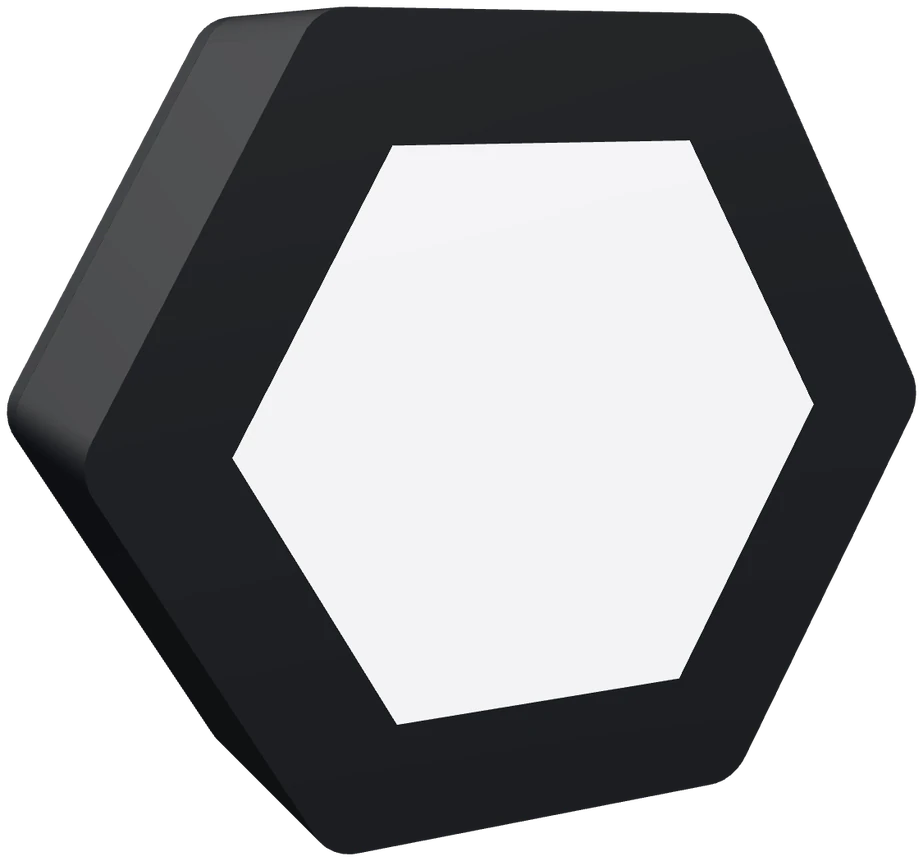
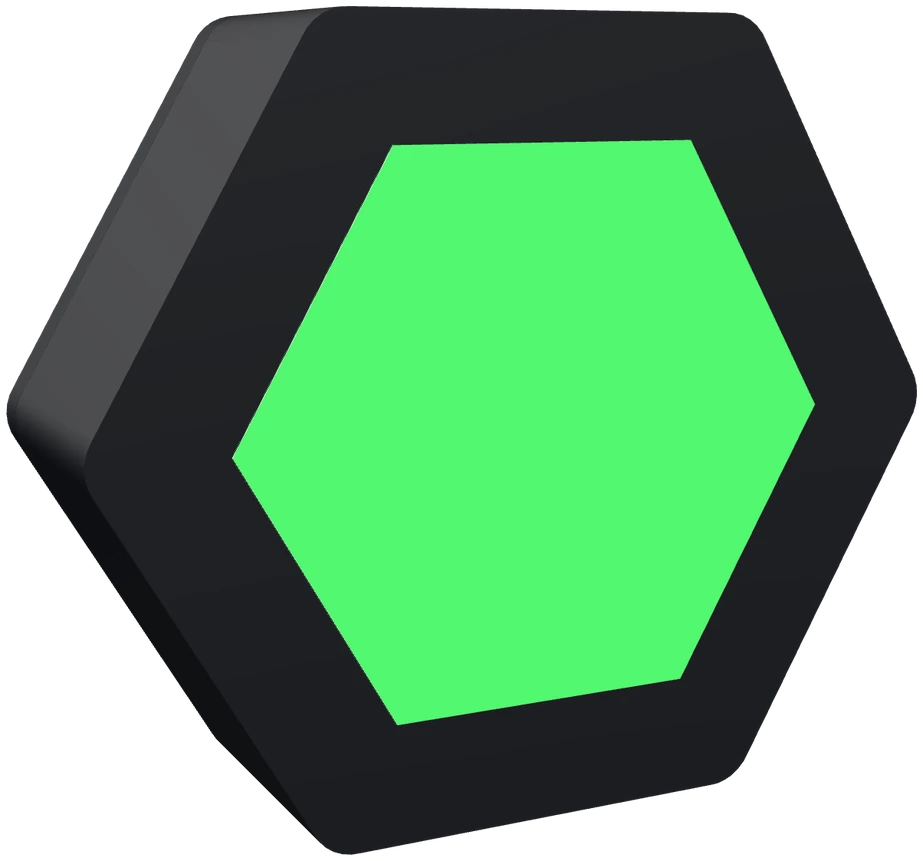
The Hex shows green in preview too (Rob: it can turn any colour); its copy says red only is a setting

diff --git a/shop/index.html b/shop/index.html
@@ -107,7 +107,7 @@
       <p class="price"><span class="later">Coming soon</span></p>
       <a class="pill" data-buy="hex" href="#signup">Join the waitlist</a>
       <button class="pill ghost v3d-btn" type="button" data-3d="hex" aria-label="View the Hex talent light in 3D">View in 3D</button>
-      <p class="spec"><b>One soft glow</b>37 LEDs behind a frosted face, so it is easy to look at from a few feet away. Red when the camera is on air, dark otherwise, so the presenter knows which lens to find.</p>
+      <p class="spec"><b>One soft glow</b>37 LEDs behind a frosted face, so it is easy to look at from a few feet away. Red on air and green in preview, with its light, or any colour from a Companion button of its own. Or set it to red only, so the presenter knows which lens to find.</p>
       <p class="spec"><b>Plugs into a Cue light<sup class="fn"><a href="#fn-3" aria-label="Note 3">3</a></sup></b>On a cable from a Cue Mini or Cue 360, and follows its tally. No WiFi or setup of its own.</p>
       <p class="spec"><b>Aim it</b>A 1/4-20 on the back, for a ball head or a magic arm.</p>
       <p class="spec"><b>Slim</b>About 40 mm across and 16 mm deep.</p>
@@ -150,7 +150,7 @@
     <article class="rig" data-rise style="--i:1">
       <h3>On the camera.</h3>
       <p>A Cue Mini for the operator, and a Hex on its cable for the presenter.</p>
-      <div class="flow"><figure class="dev"><img data-dev="mini" src="/static/devices/mini-program.svg?v=8" alt="" width="120" height="120"><figcaption>Operator</figcaption></figure><span class="wire"><b>Cable</b></span><figure class="dev"><img data-dev="hex" src="/static/devices/hex-program.svg?v=11" alt="" width="120" height="120"><figcaption>Presenter</figcaption></figure></div>
+      <div class="flow"><figure class="dev"><img data-dev="mini" src="/static/devices/mini-program.svg?v=8" alt="" width="120" height="120"><figcaption>Operator</figcaption></figure><span class="wire"><b>Cable</b></span><figure class="dev"><img data-dev="hex" src="/static/devices/hex-program.svg?v=12" alt="" width="120" height="120"><figcaption>Presenter</figcaption></figure></div>
     </article>
     <article class="rig" data-rise style="--i:2">
       <span class="later">Coming soon</span>
@@ -176,7 +176,7 @@
     </details>
     <details name="faq" id="hex">
       <summary>What does the Hex plug into?</summary>
-      <div class="ans">The port beside the USB-C on a Cue Mini or a Cue 360, on its own cable. It shows that light's tally for the presenter: red when the camera is on air, dark otherwise. It has no WiFi or setup of its own, and it runs on the power of the light it plugs into.</div>
+      <div class="ans">The port beside the USB-C on a Cue Mini or a Cue 360, on its own cable. It shows that light's tally for the presenter: red on air, green in preview. It can also show red only, or follow a Companion button of its own in any colour. It has no WiFi or setup of its own, and it runs on the power of the light it plugs into.</div>
     </details>
     <details name="faq" id="returns">
       <summary>What if it isn't right for my show?</summary>
@@ -234,7 +234,6 @@
       <button type="button" data-state="preview" aria-pressed="false">Preview</button>
       <button type="button" data-state="off" aria-pressed="false">Off</button>
     </div>
-    <p class="v3d-note" hidden>The Hex lights only on air. In preview it stays dark, so the presenter looks at the camera that is live.</p>
     <p>Drag to turn it. Pinch or scroll to zoom.</p>
     <p class="v3d-fail">The 3D viewer could not load here.</p>
   </div>
@@ -277,7 +276,7 @@
 
 <script src="/static/faces.js?v=11"></script>
 <script src="/static/nav.js?v=9"></script>
-<script src="/static/view3d.js?v=24"></script>
+<script src="/static/view3d.js?v=25"></script>
 <script>
   document.documentElement.classList.add('js');
 

diff --git a/index.html b/index.html
@@ -114,7 +114,7 @@
   <div class="trio" data-rise style="--i:1">
     <img data-dev="mini" src="/static/devices/mini-program.svg?v=8" alt="Cue Mini" width="120" height="120">
     <img class="mid" data-dev="360" src="/static/devices/360-program.svg?v=8" alt="Cue 360" width="120" height="120">
-    <img data-dev="hex" src="/static/devices/hex-program.svg?v=11" alt="Hex talent light" width="120" height="120">
+    <img data-dev="hex" src="/static/devices/hex-program.svg?v=12" alt="Hex talent light" width="120" height="120">
   </div>
   <div class="home-seg" data-rise style="--i:2">
     <div class="seg" role="group" aria-label="Tally">
@@ -204,11 +204,11 @@
     // The live thing: one tally control, and every light drawn on the page follows it.
     const keys = document.querySelectorAll('.key');
     const note = document.getElementById('seg-note');
-    const words = { program: 'On air: every light is red.', preview: 'Preview: the Mini and the 360 are green. The Hex stays dark.', off: 'Off: every light is dark.' };
+    const words = { program: 'On air: every light is red.', preview: 'Preview: every light is green.', off: 'Off: every light is dark.' };
     let state = 'program';
     function paint() {
       document.querySelectorAll('img[data-dev]').forEach(img => {
-        img.src = '/static/devices/' + img.dataset.dev + '-' + state + '.svg?v=11';
+        img.src = '/static/devices/' + img.dataset.dev + '-' + state + '.svg?v=12';
       });
       document.documentElement.dataset.tally = state;
     }

diff --git a/static/view3d.js b/static/view3d.js
@@ -18,13 +18,9 @@
   function press(group, attr, val) {
     dlg.querySelectorAll('[data-' + attr + ']').forEach(b => b.setAttribute('aria-pressed', String(b.dataset[attr] === val)));
   }
-  // the Hex stays dark in preview: say so, rather than look broken
-  function setNote() { const n = dlg.querySelector('.v3d-note'); if (n) n.hidden = !(dev === 'hex' && state === 'preview'); }
   async function paint() {
-    // the Hex is red on air and dark otherwise: in preview it stays off
-    const shown = dev === 'hex' && state === 'preview' ? 'off' : state;
+    const shown = state;
     dlg.dataset.glow = shown;
-    setNote();
     if (!mv.model) return;
     const mats = mv.model.materials;
     {
@@ -41,7 +37,7 @@
     }
   }
   function show(d) {
-    dev = d; press(null, 'dev', d); setNote();
+    dev = d; press(null, 'dev', d);
     if (loaded !== d) {
       mv.setAttribute('alt', DEV[d].alt);
       mv.cameraOrbit = DEV[d].orbit;

diff --git a/static/site.css b/static/site.css
@@ -545,7 +545,6 @@ html[data-tally="off"] .face .num { transform: translateY(6px); }
 .v3d-top, .v3d-bottom { display: flex; align-items: center; justify-content: center; gap: 16px; padding: 18px 22px; position: relative; flex-wrap: wrap; }
 .v3d-bottom { flex-direction: column; gap: 10px; padding-bottom: 22px; }
 .v3d-bottom p { font-size: 13px; color: var(--grey); }
-.v3d-bottom .v3d-note { color: var(--ink); }
 .v3d-seg { display: inline-flex; padding: 4px; gap: 4px; border-radius: 980px; background: rgba(0,0,0,.06); }
 .v3d-seg button { min-height: 36px; padding: 0 16px; border: 0; border-radius: 980px; background: transparent; color: var(--ink); font: inherit; font-size: 14px; cursor: pointer; }
 .v3d-seg button[aria-pressed="true"] { background: var(--white); box-shadow: 0 1px 4px rgba(0,0,0,.14); font-weight: 600; }
